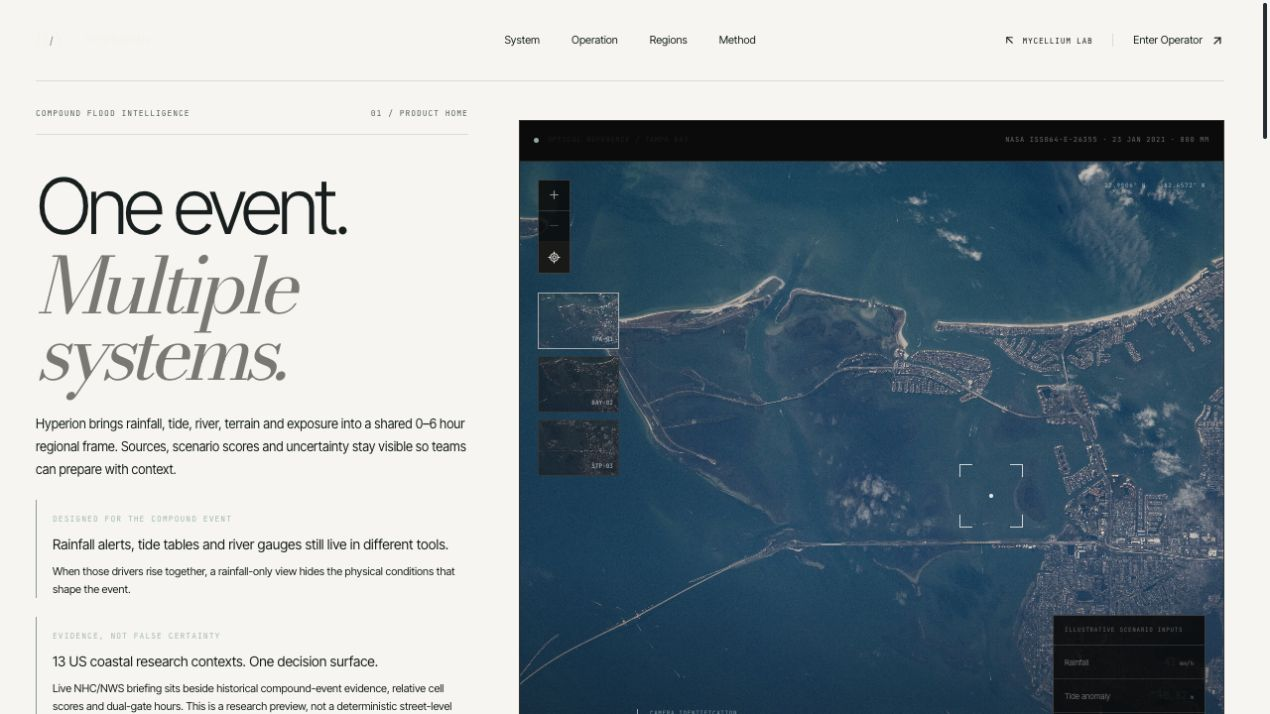
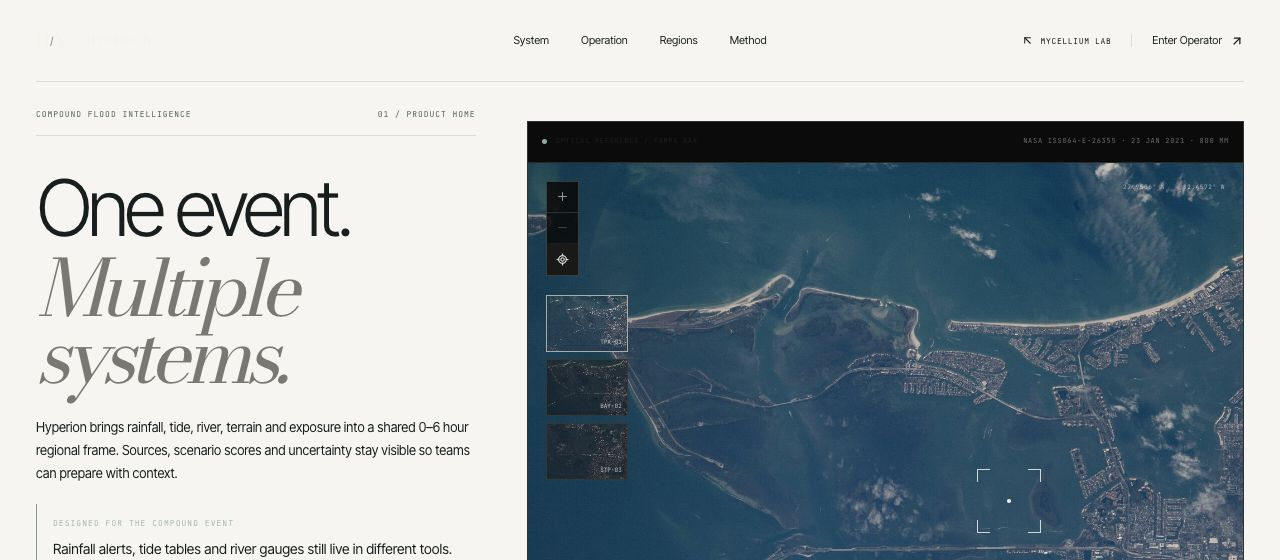
Present Hyperion architecture and original source (#2)

diff --git a/README.md b/README.md
@@ -1,40 +1,32 @@
 # Hyperion
 
-![Python](https://img.shields.io/badge/Python-3776AB?style=for-the-badge&logo=python&logoColor=white)
-![XGBoost](https://img.shields.io/badge/XGBoost-137B80?style=for-the-badge)
-![Status](https://img.shields.io/badge/status-active%20research-E36209?style=for-the-badge)
-![License](https://img.shields.io/badge/license-MIT-3C9A5F?style=for-the-badge)
+**Compound flood intelligence — data engineering, modelling and operational decision support.**
 
-![Hyperion](https://www.mycelliumlab.com/assets/hyperion-social.jpg)
+Hyperion brings rainfall, coastal water levels, river observations and terrain into a regional operating picture. I built its Python ingestion pipelines, historical event analysis, modelling infrastructure, authenticated service and operator interface within Mycellium Lab.
 
-**Urban compound flood intelligence. The next six hours, not the next thirty years.**
+## Engineering
 
-Hyperion studies compound urban flooding for Mycellium Lab. This repository documents the method and an offline demo; the full implementation is private.
+- **Data pipelines:** NOAA, NWS, USGS and NASA integrations, regional source registries, cached observations and transformation provenance.
+- **Modelling:** gradient boosting and XGBoost with feature-leakage inspection, spatial and temporal split contracts, calibration and operational metrics.
+- **Runtime:** an authenticated Python HTTP service, expiring sessions, workspace access controls and background jobs with process-level timeout isolation.
+- **Interface:** a React/Next.js operator workspace presenting source freshness, event timelines, regional layers and reports.
 
-**[Project page on Mycellium Lab](https://www.mycelliumlab.com/hyperion)**
-
-## Research scope
-
-The system combines historical event analysis, coarse-grid scores, leakage checks and operator workflows. Live NHC/NWS feeds describe hazards; historical scores are not live forecasts. The demo uses synthetic data, not surveyed flood truth.
-
-![Hyperion public research product homepage, captured 2026-10-05. Illustrative and historical evidence; not forecast or backend validation.](docs/screenshots/hyperion-public.jpg)
-
-Phase 1 focuses on Florida, Big Bend and Louisiana. Recife is closed. The service uses Python's standard-library HTTP server; scikit-learn and XGBoost support research workflows.
-
-## Offline demo
-
-Python 3.11+; no network or API key required:
-
-```bash
-python3 -m venv .venv
-. .venv/bin/activate
-python -m pip install -r requirements-dev.txt
-PYTHONPATH=src python -m hyperion_demo.demo
-PYTHONPATH=src python -m pytest -q
+```mermaid
+flowchart LR
+    A[Federal observations] --> B[Ingestion and provenance]
+    B --> C[Historical analysis and modelling]
+    C --> D[Authenticated service]
+    D --> E[Operator workspace]
 ```
 
-The demo runs Hyperion's leakage inspection, temporal split and calibration metrics on a frozen CC0-1.0 synthetic fixture. It verifies the fixture hash and keeps test timestamps and labels out of calibration.
+Live federal hazard observations and historical compound-event analysis are distinct parts of the system. Its regional models are research tools; the architecture keeps data provenance, uncertainty and evaluation boundaries explicit.
 
-Source modules and their original revision are recorded in [SOURCE_PROVENANCE.json](SOURCE_PROVENANCE.json). Methods are open for scrutiny. This repository does not provide commercial service, parcel-level scoring or live flood forecasting. See [LICENSE](LICENSE).
+## Selected source
 
-**Cesar Augusto** · [GitHub](https://github.com/cesaremcasa) · [LinkedIn](https://www.linkedin.com/in/cesar-augusto-22943a351/) · [korvo.dev](https://korvo.dev)
+This repository presents the architecture and original source excerpts for leakage inspection, split validation and metric calculation. Their origin and hashes are recorded in [SOURCE_PROVENANCE.json](SOURCE_PROVENANCE.json). The complete product implementation remains private.
+
+## Product
+
+![Hyperion regional intelligence interface](docs/screenshots/hyperion-public.jpg)
+
+[Explore Hyperion](https://www.mycelliumlab.com/hyperion/access) · [Mycellium Lab](https://www.mycelliumlab.com) · [License](LICENSE)
